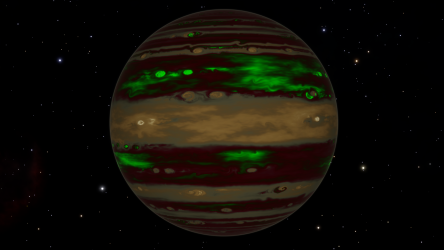
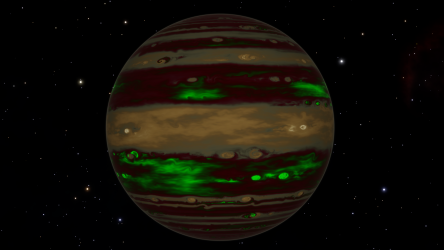
Add GGG #59

diff --git a/planets/ggg59/index.html b/planets/ggg59/index.html
@@ -1,22 +1,22 @@
 <!DOCTYPE html>
 <html>
 <head>
-    <title>edGGG | Ploea Eurl KQ-B c27-7 2</title>
-    <link rel="stylesheet" href="./ggg58Styles.css" type="text/css" />
+    <title>edGGG | Phrio Hype BB-W e2-8 12 a</title>
+    <link rel="stylesheet" href="./ggg59Styles.css" type="text/css" />
     <link rel="stylesheet" href="../../resources/gggStyles.css" type="text/css" />
     <meta name="viewport" content="width=device-width" />
     <link rel="preconnect" href="https://fonts.googleapis.com">
     <link rel="preconnect" href="https://fonts.gstatic.com" crossorigin>
     <link href="https://fonts.googleapis.com/css2?family=Jura:wght@400;500;700&display=swap" rel="stylesheet">
     <link rel="icon" type="image/x-icon" href="../../resources/favicon.png">
-    <meta property="og:image" content="https://ed-ggg.github.io/edggg/planets/ggg58/resources/Ploea_Eurl_KQ-B_c27-7_2_190125_190839lead.png">
-    <meta property="og:title" content="edGGG | Ploea Eurl KQ-B c27-7 2">
+    <meta property="og:image" content="https://ed-ggg.github.io/edggg/planets/ggg59/resources/Phrio_Hype_BB-W_e2-8_12_a_310125_170815lead.png">
+    <meta property="og:title" content="edGGG | Phrio Hype BB-W e2-8 12 a">
     <meta property="og:site_name" content="Elite: Dangerous Green Gas Giants">
-    <meta property="og:description" content="A Class I GGG located just over 2,700 LY due east of Sol. Not much has changed on its surface other than some wispy pink clouds and a few thin green streaks.">
+    <meta property="og:description" content="A Class III Green Gas Giant moon with major pink coloration around its equator, also with small patches of green. Notable as the first GGG found as a moon, orbiting body 12, a T Tauri Star.">
     <script src="../../resources/script.js" defer></script>
     <script>
         function copyName() {
-            navigator.clipboard.writeText("Ploea Eurl KQ-B c27-7 2");
+            navigator.clipboard.writeText("Phrio Hype BB-W e2-8 12 a");
         }
     </script>
 </head>
@@ -30,8 +30,8 @@
     </header>
     <main>
         <section id="top">
-            <h1 title='Click to copy to clipboard'onclick="copyName()">Ploea Eurl KQ-B c27-7 2</h1>
-            <h3><a href="../ggg57/"><span title="Previous GGG">&lt </span></a>GGG #58<a href="../ggg59/"><span title="Next GGG"> &gt</span></a></h3>
+            <h1 title='Click to copy to clipboard'onclick="copyName()">Phrio Hype BB-W e2-8 12 a</h1>
+            <h3><a href="../ggg58/"><span title="Previous GGG">&lt </span></a>GGG #59</h3>
             <div id="info-container">
                 <div id="lead-flex">
                     <div class="carousel" data-carousel>
@@ -39,31 +39,25 @@
                         <button class="carousel-button next" data-carousel-button="next">&#11166;</button>
                     <ul data-slides>
                         <li class="slide" data-active>
-                            <img src="./resources/Ploea_Eurl_KQ-B_c27-7_2_190125_190839lead.png">
+                            <img src="./resources/Phrio_Hype_BB-W_e2-8_12_a_310125_170815lead.png">
                         </li>
                         <li class="slide">
-                            <img src="./resources/Ploea_Eurl_KQ-B_c27-7_2_190125_191301.png">
+                            <img src="./resources/Phrio_Hype_BB-W_e2-8_12_a_310125_170953.png">
                         </li>
                         <li class="slide">
-                            <img src="./resources/Ploea_Eurl_KQ-B_c27-7_2_190125_192441.png">
+                            <img src="./resources/Phrio_Hype_BB-W_e2-8_12_a_310125_171338.png">
                         </li>
                         <li class="slide">
-                            <img src="./resources/Ploea_Eurl_KQ-B_c27-7_2_190125_192705.png">
+                            <img src="./resources/Phrio_Hype_BB-W_e2-8_12_a_310125_172257.png">
                         </li>
                         <li class="slide">
-                            <img src="./resources/Ploea_Eurl_KQ-B_c27-7_2_a_190125_191835.png">
+                            <img src="./resources/Phrio_Hype_BB-W_e2-8_12_a_310125_174641.png">
                         </li>
                         <li class="slide">
-                            <img src="./resources/Ploea_Eurl_KQ-B_c27-7_2_a_190125_192101.png">
+                            <img src="./resources/Phrio_Hype_BB-W_e2-8_12_a_310125_175258.png">
                         </li>
                         <li class="slide">
-                            <img src="./resources/Ploea_Eurl_KQ-B_c27-7_2_A_Ring_190125_191018.png">
-                        </li>
-                        <li class="slide">
-                            <img src="./resources/Ploea_Eurl_KQ-B_c27-7_2_bc_190125_192820.png">
-                        </li>
-                        <li class="slide">
-                            <img src="./resources/Ploea_Eurl_KQ-B_c27-7_2_190125_193518.png">
+                            <img src="./resources/Phrio_Hype_BB-W_e2-8_12_a_310125_171219.png">
                         </li>
                         <li class="slide">
                             <img src="./resources/sysmap.jpg">
@@ -71,13 +65,15 @@
                     </ul>
                     </div>
                     <div id="discovery">
-                        <h4><span>Discovered By:</span> CMDR Jim Rogon</h4>
-                        <h4><span>Date:</span> 3311-01-19</h4>
+                        <h4><span>Discovered By:</span> CMDR RapidR</h4>
+                        <h4><span>Date:</span> 3311-01-31</h4>
                     </div>
                     <hr>
                     <div id="planet-description">
                         <h2>Description:</h2>
-                        <p>A Class I GGG located just over 2,700 LY due east of Sol. Not much has changed on its surface other than some wispy pink clouds and a few thin green streaks. 
+                        <p>
+                            A Class III GGG with major pink coloration in the clouds around its equator, as well as smaller patches of green. This particular gas giant is also notable for being the first one found as a moon, orbiting body 12, a T Tauri Star.
+                            <p><span style="color: #f07b05;">Community Name:</span> Rose's Thorn</p>
                         </p>
                     </div>
                 </div>
@@ -87,83 +83,83 @@
                             <th colspan="2">Body Characteristics</th>
                             <tr>
                                 <td title='The type of gas giant the planet is'class="row"><span>Type:</span></td>
-                                <td>Class I</td>
+                                <td>Class III</td>
                             </tr>
                             <tr>
                                 <td title='Surface temperature in Kelvin'class="row"><span>Temperature:</span></td>
-                                <td>100.046646 K</td>
+                                <td>670.000000 K</td>
                             </tr>
                             <tr>
                                 <td title='Mass of the planet in Earth Masses' class="row"><span>Mass:</span></td>
-                                <td>49.2480 M🜨</td>
+                                <td>1,107.7173 M🜨</td>
                             </tr>
                             <tr>
                                 <td title="Surface gravity measured in 'g's, Earth being 1 g" class="row"><span>Gravity:</span></td>
-                                <td>0.79 g</td>
+                                <td>7.50 g</td>
                             </tr>
                             <tr>
                                 <td title='Equatorial Radius in kilometers' class="row"><span>Radius:</span></td>
-                                <td>50,329 km</td>
+                                <td>77,486 km</td>
                             </tr>
                             <tr>
                                 <td title='Time it takes for the planet to spin once on its axis, measured in Earth days' class="row"><span>Rotational Period:</span></td>
-                                <td>1.0 d</td>
+                                <td>2.8 d</td>
                             </tr>
                             <tr>
                                 <td title='Tilt of the rotational axis of the planet in relation to its orbital plane, measured in degrees' class="row"><span>Axial Tilt:</span></td>
-                                <td>-14.3°</td> <!--DEGREES NOT RADIANS-->
+                                <td>-4.15°</td> <!--DEGREES NOT RADIANS-->
                             </tr>
                             <tr>
                                 <td title='If the planet has rings or not' class="row"><span>Rings:</span></td>
-                                <td>Yes</td>
+                                <td>No</td>
                             </tr>
                             <tr>
                                 <td title="How many moons the planet has. A '+' indicates how many moonlets (moons of moons) are in the moon system" class="row"><span>Moons:</span></td>
-                                <td>9 (9 landable)</td>
+                                <td>0</td>
                             </tr>
                             </tr>
                                 <td title='Galactic region where the planet is located' class="row"><span>Region:</span></td>
-                                <td>Outer Orion Spur</td>
+                                <td>Sanguineous Rim</td>
                             </tr>
                             <tr>
                                 <td title='Distance in lightyears from Sol' class="row"><span>Distance From Sol:</span></td>
-                                <td>2,747.76 Ly</td>
+                                <td>8,136.08 Ly</td>
                             </tr>
                             <tr>
                                 <td title='Distance in lightseconds from hyperspace drop point' class="row"><span>Distance to Arrival:</span></td>
-                                <td>963 Ls</td>
+                                <td>2,792 Ls</td>
                             </tr>
                             <tr>
                                 <td title='The time it takes to orbit its parent star/barycentre once, measured in Earth days' class="row"><span>Orbital Period:</span></td>
-                                <td>1,372.8 d</td>
+                                <td>156.5 d</td>
                             </tr>
                             <tr>
                                 <td title="Angle of the planet's orbital plane compared to the plane of reference of the system/barycentre, in degrees" class="row"><span>Orbital Inclination:</span></td>
-                                <td>0.00°</td>
+                                <td>-46.19°</td>
                             </tr>
                             <tr>
                                 <td title='A number from 0 to 1 describing how circular of an orbit a planet has. 0 being a perfect circle and 1 being a hyperbolic trajectory' class="row"><span>Orbital Eccentricity:</span></td>
-                                <td>0.0033</td>
+                                <td>0.0000</td>
                             </tr>
                             <tr>
                                 <td title='Distance in astronomical units from the center of an orbital ellipse to its farthest point (Half the major axis of an ellipse)' class="row"><span>Semi-Major Axis:</span></td>
-                                <td>1.93 AU</td>
+                                <td>0.22 AU</td>
                             </tr>
                             <tr>
                                 <td title='Angle from ascending node to periapsis, measured in degrees' class="row"><span>Argument of Periapsis:</span></td>
-                                <td>242.46°</td>
+                                <td>256.99°</td>
                             </tr>
                             <tr>
                                 <td title='Atmospheric composition of Hydrogen' class="row"><span>Hydrogen:</span></td>
-                                <td>74.543289%</td>
+                                <td>72.725883%</td>
                             </tr>
                             <tr>
                                 <td title='Atmospheric composition of Helium' class="row"><span>Helium:</span></td>
-                                <td>25.456703%</td>
+                                <td>27.274115%</td>
                             </tr>
                             <tr>
                                 <td title='The main star(s) the gas giant (or barycentre) is orbiting' class="row"><span>Parent Star(s):</span></td>
-                                <td>K9 Va</td>
+                                <td>B0 Vz—TTS9 VI</td>
                             </tr>
                         </table>   
                     </div>

diff --git a/index.html b/index.html
@@ -31,7 +31,7 @@
                 <h1>Search</h1>
                 <div class="search-box">
                     <div class="row">
-                        <input type="text" id="input-box" placeholder="Search 58 GGGs by name..." autocomplete="off">
+                        <input type="text" id="input-box" placeholder="Search 59 GGGs by name..." autocomplete="off">
                         <button onclick='searchFunction()'class="material-symbols-outlined">
                             search
                         </button>
@@ -51,7 +51,7 @@
                         <h2 class="card-title">Class II</h2>
                     </div>
                     <div class="planet-card">
-                        <a href="./class-searches/class3/"><img src="./resources/gggs/Gludgoea AA-A e25 ABCD 3.png"></a>
+                        <a href="./class-searches/class3/"><img src="./resources/gggs/Phrio_Hype_BB-W_e2-8_12_a_310125_170815.png"></a>
                         <h2 class="card-title">Class III</h2>
                     </div>
                     <div class="planet-card">
@@ -92,6 +92,11 @@
                         <a href='./planets/ggg58/'><img src="./class-searches/class1/c1-pics/Ploea_Eurl_KQ-B_c27-7_2_190125_190839.png"></a>
                         <h2>Ploea Eurl KQ-B c27-7 2</h2>
                         <h4>CMDR Jim Rogon — 3311-01-19</h4>
+                    </div>
+                    <div class="new-planet-card">
+                        <a href='./planets/ggg59/'><img src="./class-searches/class3/c3-pics/Phrio_Hype_BB-W_e2-8_12_a_310125_170815.png"></a>
+                        <h2>Phrio Hype BB-W e2-8 12 a</h2>
+                        <h4>CMDR RapidR — 3311-01-31</h4>
                     </div>
                 </div>
             </div>

diff --git a/class-searches/class3/index.html b/class-searches/class3/index.html
@@ -27,7 +27,7 @@
                     being fully enveloped in blinding green clouds. These planets can be discolored to have normal blue, deep purple, bright and deep pink, and of course green. This planet
                     class was discovered to be green at only certain temperatures (save for 2). </p>
                     <hr>
-                <h2>10 known</h2>
+                <h2>11 known</h2>
             </div>
             <div id="planets-container-flex">
                 <div class = 'planet-card'>
@@ -69,6 +69,11 @@
                     <a href='../../planets/ggg32/'><img src="./c3-pics/Lysoovsky BH-L d8-26 (20221031-191002).png"></a>
                     <h2>Lysoovsky BH-L d8-26 3</h2>
                     <h4>3307-05-01 — CMDR Barden Fayle</h4>
+                </div>
+                <div class = 'planet-card'>
+                    <a href='../../planets/ggg59/'><img src="./c3-pics/Phrio_Hype_BB-W_e2-8_12_a_310125_170815.png"></a>
+                    <h2>Phrio Hype BB-W e2-8 12 a</h2>
+                    <h4>3311-01-31 — CMDR RapidR</h4>
                 </div>
                 <div class = 'planet-card'>
                     <a href="../../planets/ggg21"><img src="./c3-pics/Praea Euq VP-M c21-1 (20221102-145141).png"></a>

diff --git a/planets/ggg42/index.html b/planets/ggg42/index.html
@@ -42,13 +42,13 @@
                             <img src="./resources/Thaileia PJ-O D7-74 D 3.png">
                         </li>
                         <li class="slide">
-                            <img src="./resources/20230713162005_1.jpg">
-                        </li>
-                        <li class="slide">
                             <img src="./resources/HighResScreenShot_2023-07-04_01-53-46.png">
                         </li>
                         <li class="slide">
                             <img src="./resources/HighResScreenShot_2023-07-04_01-57-55.png">
+                        </li>
+                        <li class="slide">
+                            <img src="./resources/Thaileia_PJ-O_d7-74_D_3_a_310125_135605.png">
                         </li>
                         <li class="slide">
                             <img src="./resources/20230703220413_1.jpg">

diff --git a/search/search.js b/search/search.js
@@ -181,6 +181,9 @@ const searchFunction = () => {
             case "ploea eurl kq-b c27-7 2":
                 window.open('./planets/ggg58','_self');
                 break;
+            case "phrio hype bb-w e2-8 12 a":
+                window.open('./planets/ggg59','_self');
+                break;
         }
     }
 }

diff --git a/search/index.js b/search/index.js
@@ -54,6 +54,7 @@ let allGGGs = [
     'Nyuena AC-B d14-245 7',
     'Oochody AA-Y c17-1 2',
     'Pheia Aewsy LV-Y d11 B 4',
+    'Phrio Hype BB-W e2-8 12 a',
     'Plaa Ain YH-G b13-0 A 8',
     'Plieliae SM-C c29-11 B 3',
     'Ploea Eurl KQ-B c27-7 2',

diff --git a/planets/ggg59/ggg59Styles.css b/planets/ggg59/ggg59Styles.css
@@ -1,0 +1,11 @@
+#dot {
+    top: 415px; 
+    left: 269px;
+}
+
+@media only screen and (max-width: 615px) {
+    #dot {
+        left:132px;
+        top:205px;
+    }
+}
